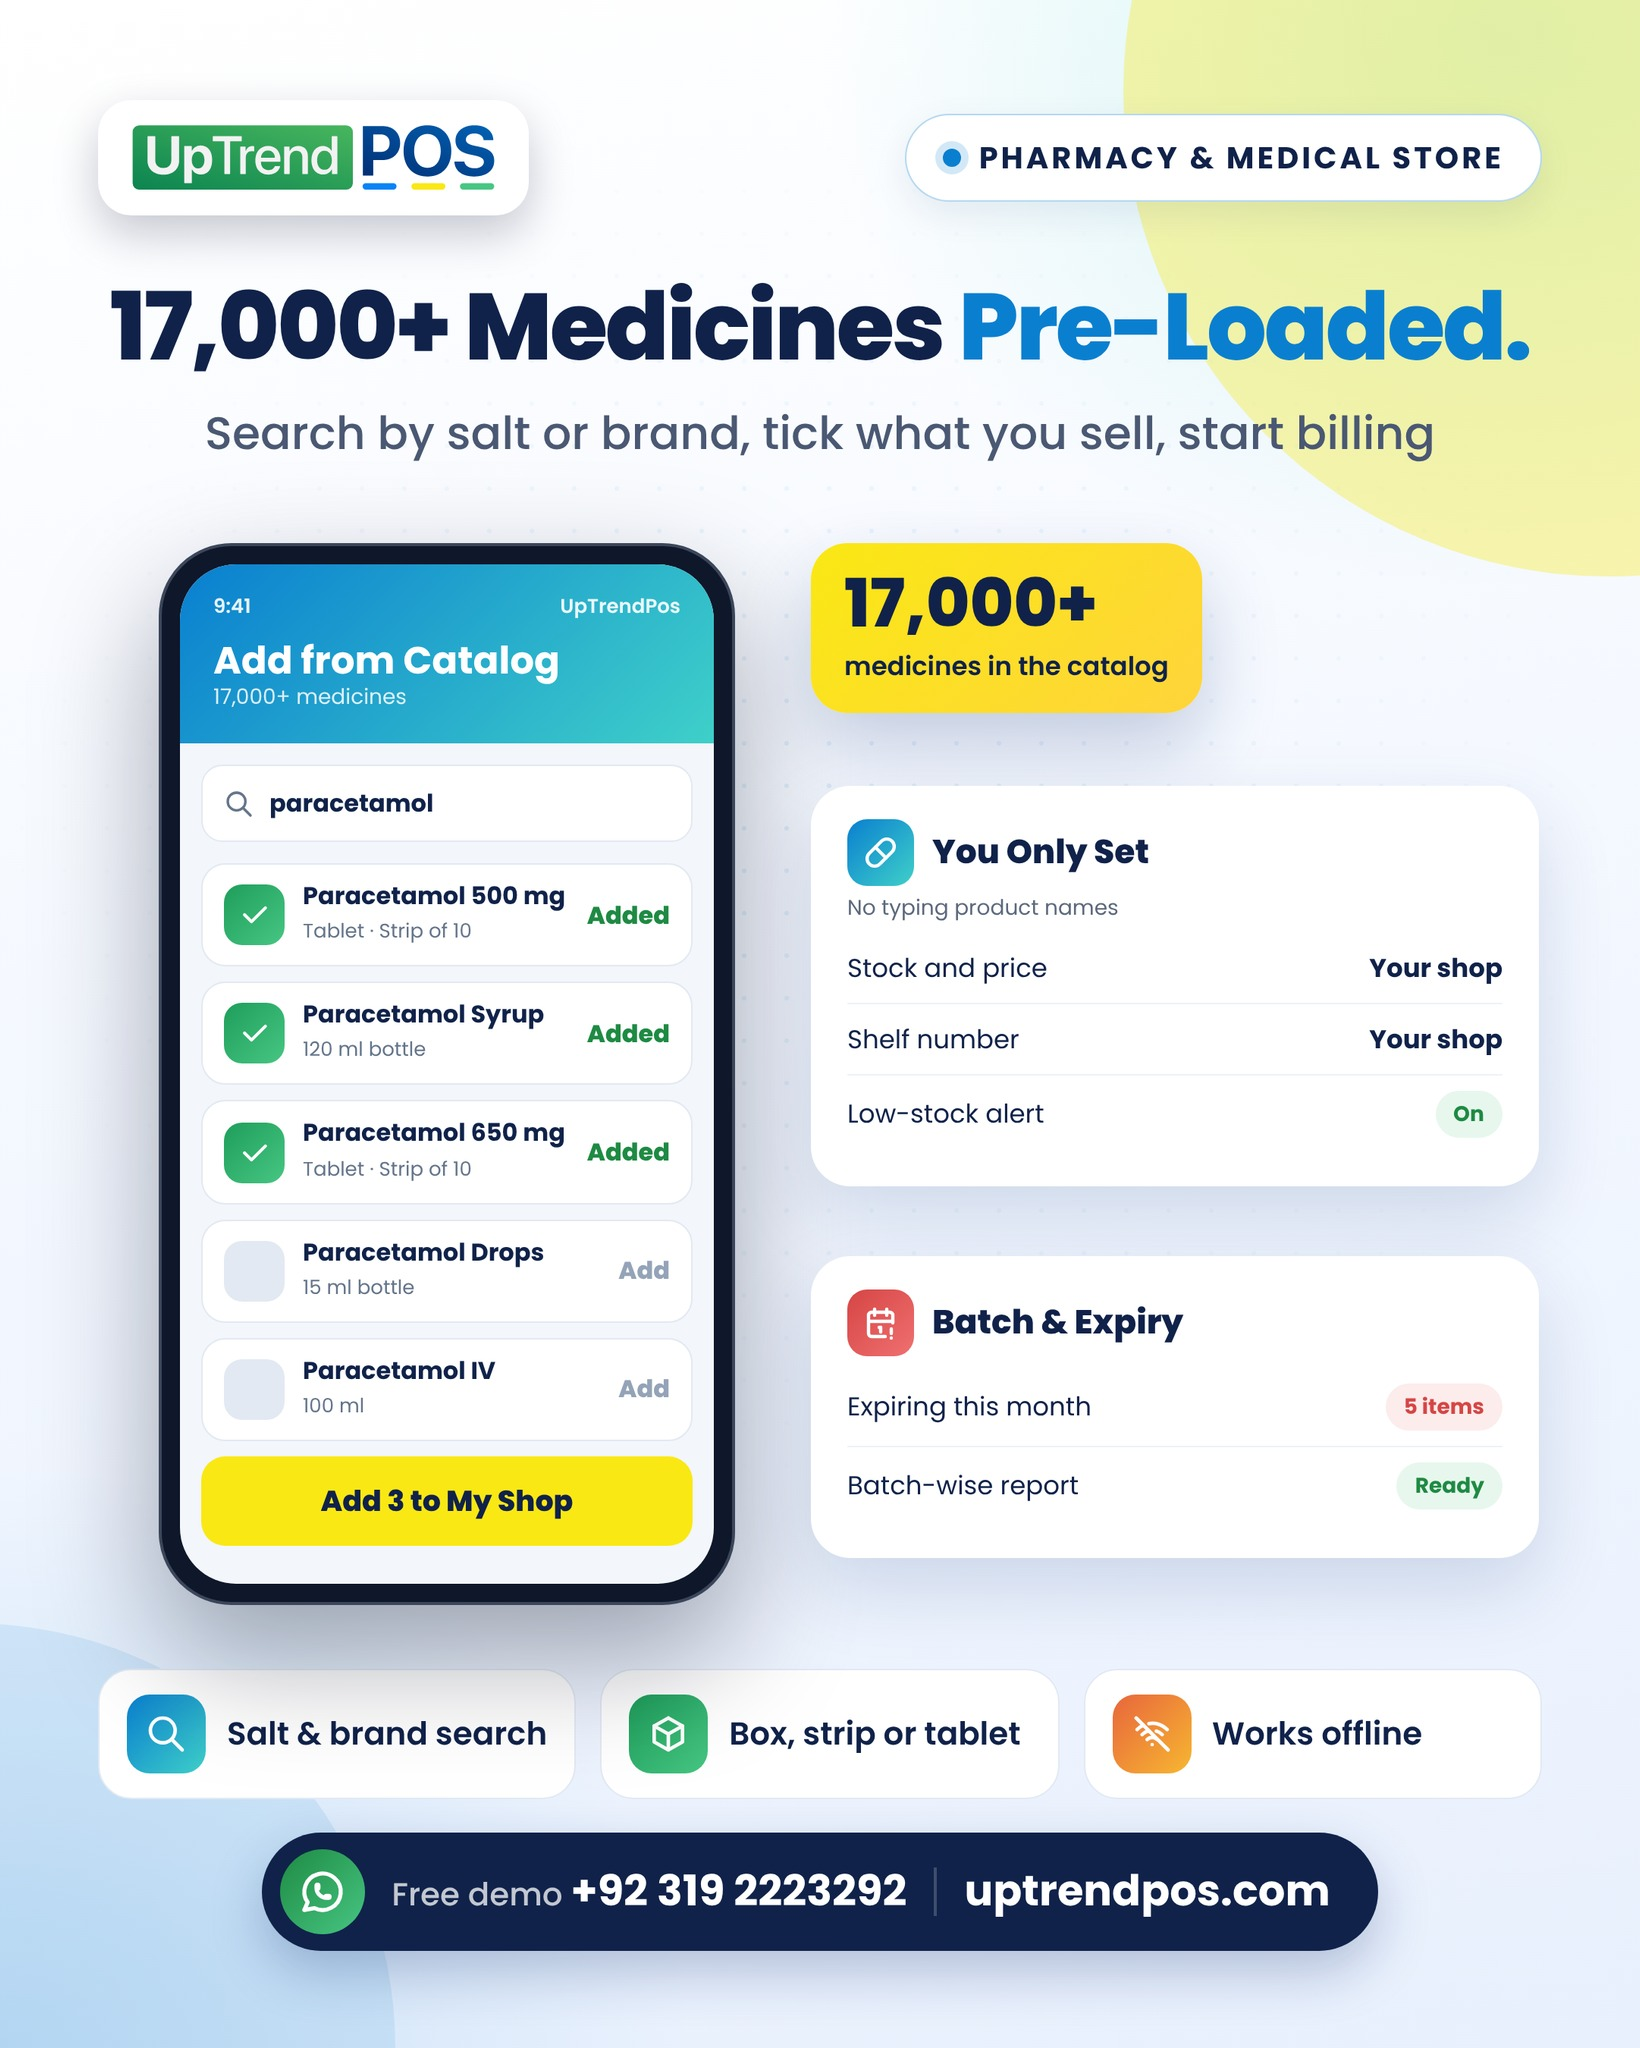
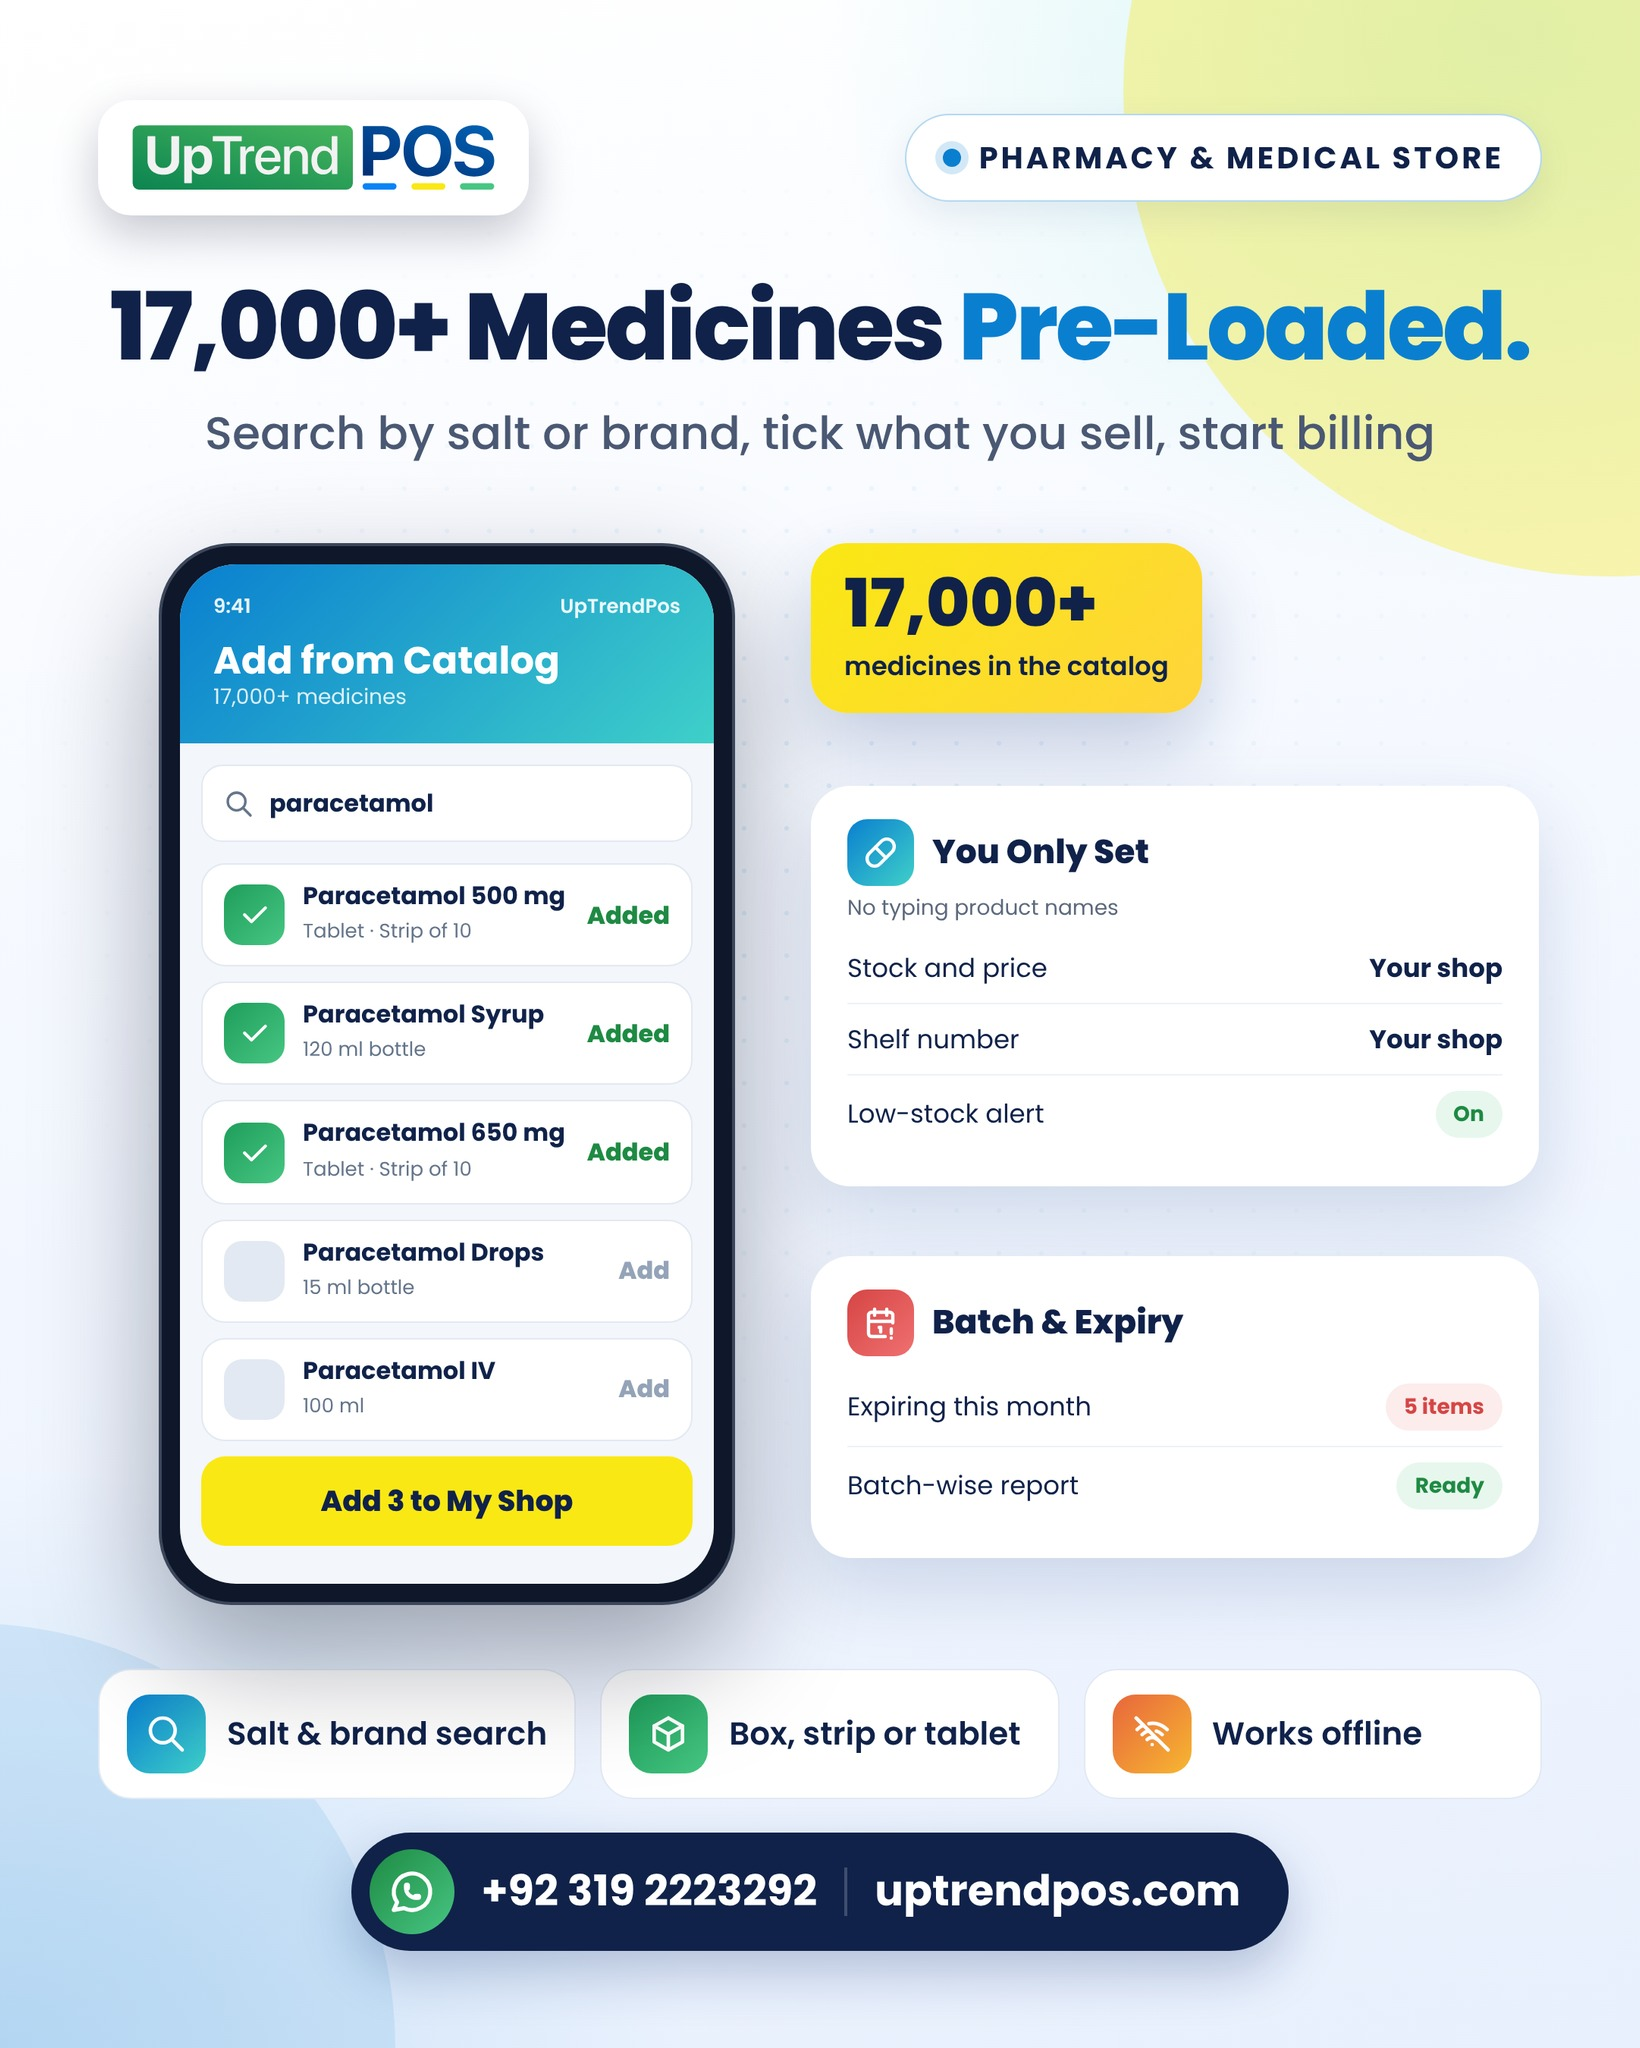
Social: remove 'Free demo' from post footer, captions and rules (Abdul 30 Oct)
Claude-Session: https://claude.ai/code/session_01EW1DXdSKv1N8FqibvbrEk8

Changed region(s): [[0.1555, 0.875, 0.8396, 0.9688]]

diff --git a/social/post.py b/social/post.py
@@ -272,7 +272,7 @@ def page(spec):
   <div class="s fit" data-max="952">{spec["sub"]}</div>
   <div class="vis"><div class="in">{vis}</div></div>
   <div class="tiles">{tl}</div>
-  <div class="foot"><div class="fp"><span class="wa">{icon("brand-whatsapp", 32, "#fff", 2)}</span><span><small>Free demo </small>{PHONE}</span><i></i><span>uptrendpos.com</span></div></div>
+  <div class="foot"><div class="fp"><span class="wa">{icon("brand-whatsapp", 32, "#fff", 2)}</span><span>{PHONE}</span><i></i><span>uptrendpos.com</span></div></div>
 </div>'''
     return (f'<!doctype html><html><head><meta charset="utf-8"><style>{FONT_CSS}:root{{{v}}}{css}</style></head>'
             f'<body>{deco}{body}{CHECK_JS}</body></html>')
@@ -281,7 +281,7 @@ def page(spec):
 # ---------------------------------------------------------------- spec gate (content rules)
 BANNED = [r'\bRs\.?\s?\d[\d,]*\s*(/|per)\s*(month|mo|year)', r'\bPKR\b', r'%\s*off', r'\bdiscount offer', r'free plan', r'free forever',
           r'certified', r'FBR approved', r'pakistan.?s (first|no\.? ?1)', r'\bAGR\b', r'ready-?made', r'\bone pos\b', r'\bsmart\b',
-          r'\biOS\b', r'\biPhone app\b', r'installation (fee|charge)', r'setup (fee|charge)', r'\bswipe\b', r'unlimited offline']
+          r'\biOS\b', r'\biPhone app\b', r'free demo', r'installation (fee|charge)', r'setup (fee|charge)', r'\bswipe\b', r'unlimited offline']
 
 
 def gate_spec(spec):

diff --git a/social/SOCIAL_FACTS.md b/social/SOCIAL_FACTS.md
@@ -6,7 +6,7 @@ Read this file together with `site/automation/FACTS.md` (the website's allowed-f
 
 ## Brand and contact (never change)
 - Brand: **UpTrendPos**. Never write "UP Trend POS", "UptrendPOS", AGR or AGR Soft.
-- Phone and WhatsApp: +92 319 2223292. Website: uptrendpos.com. Free live demo: live.uptrendpos.com.
+- Phone and WhatsApp: +92 319 2223292. Website: uptrendpos.com. Live app to try: live.uptrendpos.com.
 - Socials: facebook.com/uptrendpos, instagram.com/uptrendpos, linkedin.com/company/uptrendpos, tiktok.com/@uptrendpos, youtube.com/@UpTrendPos.
 
 ## Loaded catalogs (highlight these whenever the business has one)
@@ -33,7 +33,7 @@ Read this file together with `site/automation/FACTS.md` (the website's allowed-f
 - Staff attendance and salary (payroll) is Custom only.
 
 ## Never write
-- "Free plan", "free forever", "ready-made", "One POS", "Smart", "certified", "FBR approved", "Pakistan's first/No. 1", "unlimited offline", iOS app, customer counts, competitor names, installation or setup fees.
+- "Free demo" (image or captions: the website already says it many times), "Free plan", "free forever", "ready-made", "One POS", "Smart", "certified", "FBR approved", "Pakistan's first/No. 1", "unlimited offline", iOS app, customer counts, competitor names, installation or setup fees.
 - Real brand names in mockups, for example Panadol or Pampers. Use generic names such as "Paracetamol 500 mg" or "Baby Diapers Size 4".
 - Health claims.
 - Fake buttons or "Swipe" UI, except an in-app phone button that is part of the mockup.
@@ -48,7 +48,7 @@ Read this file together with `site/automation/FACTS.md` (the website's allowed-f
   - One-line sub-line in grey. Use `<b>` for one key phrase.
   - Hero canvas of 952x700 with app-screen mockups.
   - 3 white icon tiles.
-  - Navy footer pill: "Free demo +92 319 2223292 | uptrendpos.com". This is automatic.
+  - Navy footer pill: WhatsApp icon + "+92 319 2223292 | uptrendpos.com". This is automatic. Never write "Free demo" anywhere in the image (Abdul, 30 Oct 2026).
 - Accent `c1`/`c2`: pick one colour family per post. Avoid repeating the previous day's accent.
   - Pharmacy: `#0A7FD0`/`#3FD0C9`.
   - Grocery and full catalog: `#1E8A43`/`#47C683`.
@@ -75,11 +75,11 @@ Read this file together with `site/automation/FACTS.md` (the website's allowed-f
 1. **Facebook:**
    - Hook line and 3-5 short benefit lines (✅).
    - One Roman Urdu line.
-   - CTA: "WhatsApp +92 319 2223292 for a free demo".
+   - CTA: "WhatsApp +92 319 2223292".
    - **No links** (Facebook limits reach for them).
    - 6-8 hashtags.
 2. **Instagram:**
-   - Same core text, with "Free live demo: live.uptrendpos.com".
+   - Same core text, with "Try it live: live.uptrendpos.com".
    - The CTA phone.
    - 12-15 hashtags at the end.
 3. **LinkedIn:**

diff --git a/social/out/2026-10-30/captions.md b/social/out/2026-10-30/captions.md
@@ -12,7 +12,7 @@ UpTrendPos already has 17,000+ medicines loaded for your pharmacy.
 
 Ab har dawai type karne ki zaroorat nahi: search karein, tick karein, aur bechna shuru karein.
 
-📲 WhatsApp +92 319 2223292 for a free demo.
+📲 WhatsApp +92 319 2223292
 
 #UpTrendPos #PharmacyPOS #PharmacyPakistan #MedicalStore #POSSoftware #Pakistan #Sahiwal
 
@@ -28,8 +28,8 @@ UpTrendPos already has 17,000+ medicines loaded for your pharmacy.
 
 Ab har dawai type karne ki zaroorat nahi: search karein, tick karein, aur bechna shuru karein.
 
-🖥 Free live demo: live.uptrendpos.com
-📲 WhatsApp +92 319 2223292 for a free demo.
+🖥 Try it live: live.uptrendpos.com
+📲 WhatsApp +92 319 2223292
 
 #UpTrendPos #POSSoftware #PharmacyPOS #PharmacyPakistan #MedicalStore #PharmacySoftware #ChemistShop #RetailPakistan #SmallBusinessPakistan #ShopOwner #Pakistan #Lahore #Karachi #Sahiwal #Faisalabad
 
@@ -38,6 +38,6 @@ Setting up a pharmacy POS usually means days of typing product names, salts and 
 
 UpTrendPos comes with a catalog of 17,000+ medicines already loaded. The owner searches by salt or brand, ticks the products the store sells and adds them in one go, then sets only stock, price and shelf number. Batch and expiry alerts, box/strip/tablet units and offline cash billing are part of the same app on Android, Windows and the web.
 
-Book a free demo on WhatsApp at +92 319 2223292, or try it live at live.uptrendpos.com. More at https://uptrendpos.com
+WhatsApp +92 319 2223292, or try it live at live.uptrendpos.com. More at https://uptrendpos.com
 
 #UpTrendPos #PharmacySoftware #RetailTechnology #Pakistan #POSSoftware
